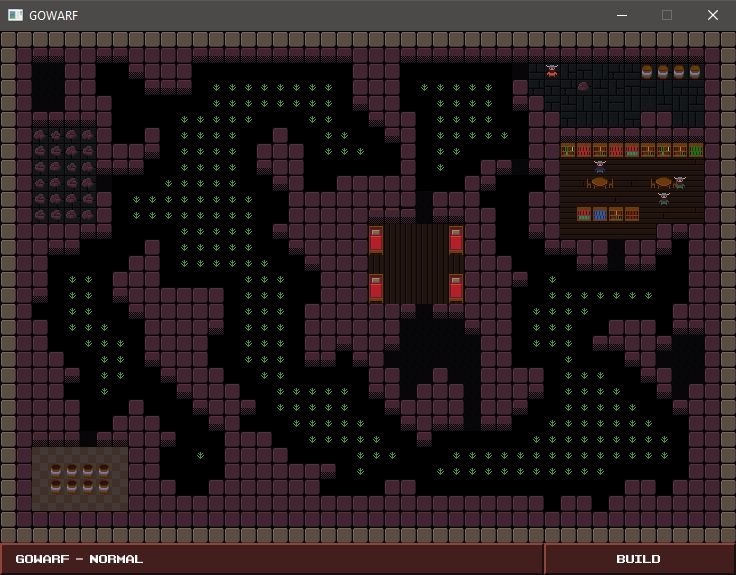
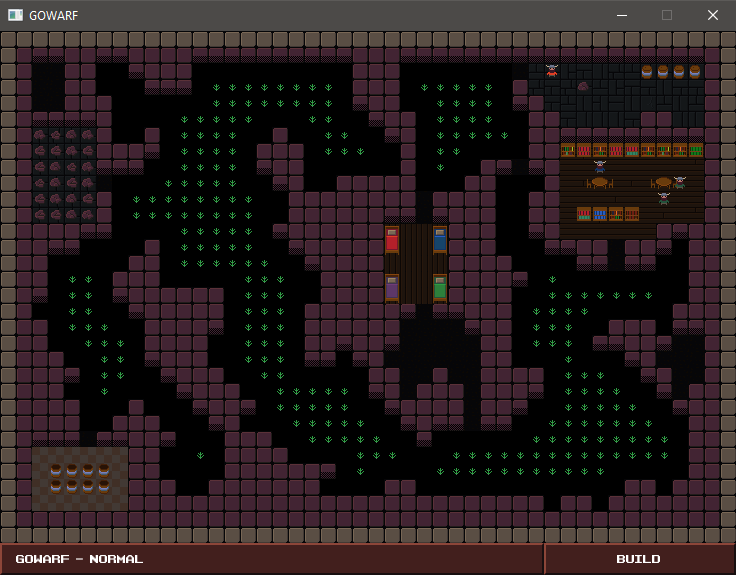
More beds.

Changed region(s): [[0.5, 0.3548, 0.6562, 0.5322], [0.6562, 0.3252, 0.6875, 0.3548]]

diff --git a/entity/items.go b/entity/items.go
@@ -182,6 +182,12 @@ const (
 const (
 	BedRed1 = iota + gl.TilesetW*4
 	BedRed2
+	BedBlue1
+	BedBlue2
+	BedGreen1
+	BedGreen2
+	BedPurple1
+	BedPurple2
 )
 
 var (
@@ -207,7 +213,7 @@ var (
 	Bar = []int{BarH, BarV, BarLeft, BarRight, BarTopLeft,
 		BarTopRight, BarDrinksLeft, BarDrinksRight, BarStool}
 	Beds = []int{
-		BedRed1, BedRed2,
+		BedRed1, BedRed2, BedBlue1, BedBlue2, BedGreen1, BedGreen2, BedPurple1, BedPurple2,
 	}
 )
 
@@ -304,9 +310,12 @@ func IsBarrel(sprite int) bool {
 }
 
 func IsBed(sprite int) bool {
-	return sprite >= BedRed1 && sprite <= BedRed2
+	return sprite >= BedRed1 && sprite <= BedPurple2
 }
 
 func IsBedTop(sprite int) bool {
-	return sprite == BedRed1
+	return sprite == BedRed1 ||
+		sprite == BedBlue1 ||
+		sprite == BedGreen1 ||
+		sprite == BedPurple1
 }

diff --git a/room/sleep_hall.go b/room/sleep_hall.go
@@ -4,6 +4,7 @@ import (
 	"sort"
 
 	"github.com/Holmqvist1990/WARF2/entity"
+	"github.com/Holmqvist1990/WARF2/item"
 	m "github.com/Holmqvist1990/WARF2/worldmap"
 )
 
@@ -42,8 +43,7 @@ func NewSleepHall(mp *m.Map, x, y int) (*SleepHall, bool) {
 		if m.IsNextToDoorOpening(mp, idx) || m.IsNextToDoorOpening(mp, m.OneDown(idx)) {
 			continue
 		}
-		mp.Items[idx].Sprite = entity.BedRed1
-		mp.Items[m.OneDown(idx)].Sprite = entity.BedRed2
+		mp.Items[idx].Sprite, mp.Items[m.OneDown(idx)].Sprite = item.RandomBed()
 	}
 	s.ID = sleepHallAutoID
 	sleepHallAutoID++

diff --git a/item/generation.go b/item/generation.go
@@ -54,3 +54,8 @@ func RandomFurniture() int {
 func RandomCrumbledWall() int {
 	return rand.Intn(entity.WallCrumbled4-entity.WallCrumbled1+1) + entity.WallCrumbled1
 }
+
+func RandomBed() (int, int) {
+	n := rand.Intn(len(entity.Beds)/2) * 2
+	return entity.Beds[n], entity.Beds[n+1]
+}
